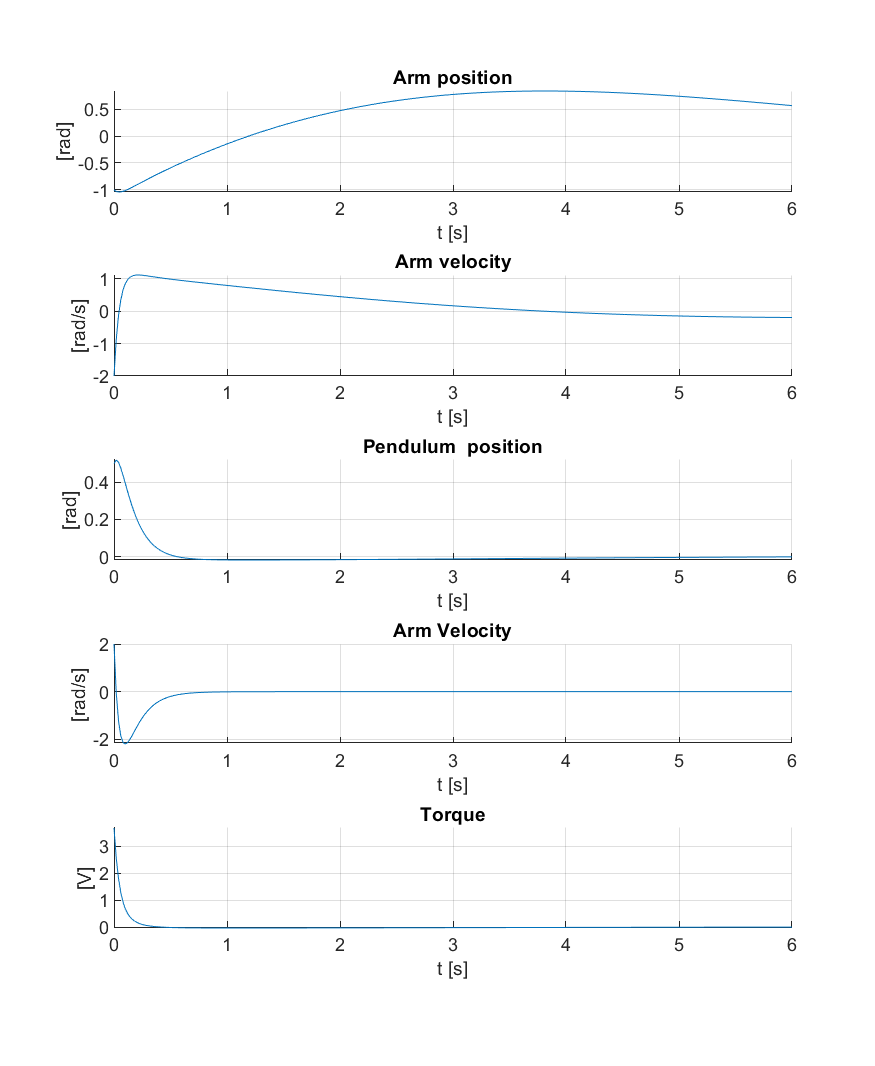
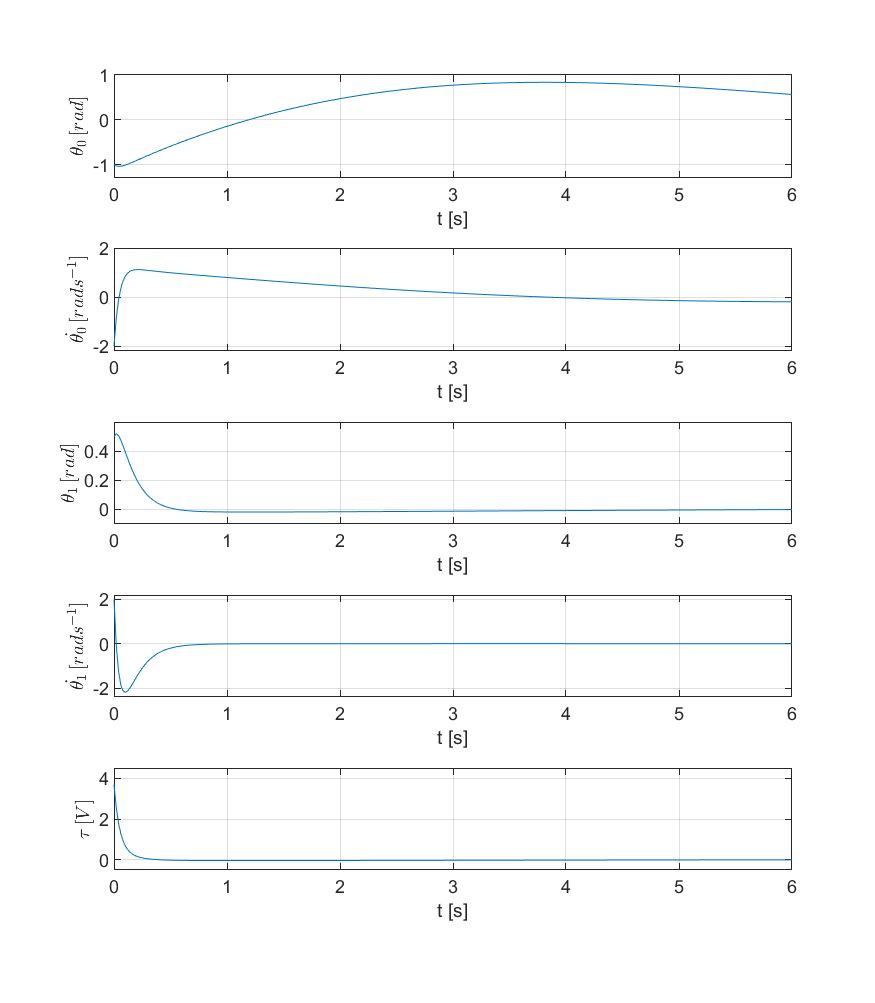
minor[LaTeX]:updated

diff --git a/LaTeX/content/theory.tex b/LaTeX/content/theory.tex
@@ -12,35 +12,37 @@ Rotational inverted pendulum or Furuta’s pendulum composes of two main parts: 
 \newpage
 The symbols in the figure indicate the following:
 \begin{itemize}
-	\item \textbf{$g$} - gravitational acceleration $[ms^2]$
-	\item \textbf{$m_0$} - mass of arm $[kg]$
-	\item \textbf{$m_1$} - mass of pendulum $[kg]$
-	\item \textbf{$L_0$} - length of arm $[m]$
-	\item \textbf{$L_1$} - length of pendulum $[m]$
-	\item \textbf{$l_1$} - location of the pendulums center of mass $[m]$
-	\item \textbf{$I_0$} - moment of inertia of arm $[kgm^2]$
-	\item \textbf{$I_1$} - moment of inertia of pendulum $[kgm^2]$
-	\item \textbf{$\theta_0$} - arm angle $[rad]$
-	\item \textbf{$\theta_1$} - pendulum angle $[rad]$
-	\item \textbf{$\tau$} - motor torque $[V]$
+	\item \textbf{$g$} - gravitational acceleration [\si{\metre\per\square\second}]
+	\item \textbf{$m_0$} - mass of arm [\si{\kilogram}]
+	\item \textbf{$m_1$} - mass of pendulum [\si{\kilogram}]
+	\item \textbf{$L_0$} - length of arm [\si{\metre}]
+	\item \textbf{$L_1$} - length of pendulum [\si{\metre}]
+	\item \textbf{$l_1$} - location of the pendulums center of mass [\si{\metre}]
+	\item \textbf{$I_0$} - moment of inertia of arm [\si{\kilogram\per\square\metre}]
+	\item \textbf{$I_1$} - moment of inertia of pendulum [\si{\kilogram\per\square\metre}]
+	\item \textbf{$\theta_0$} - arm angle [\si{\radian}]
+	\item \textbf{$\theta_1$} - pendulum angle [\si{\radian}]
+	\item \textbf{$\tau$} - motor torque [\si{\volt}]
 \end{itemize}
 \subsection{State-Space Representation}
 To obtain the state representation of the process we must define our state variables first:
 \begin{equation}
 	\begin{bmatrix}
 	x_1 & x_2 & x_3 & x_4
-	\end{bmatrix}^T = 
+	\end{bmatrix}^\intercal = 
 	\begin{bmatrix}
 	\theta_0 & \dot{\theta_0} & \theta_1 & \dot{\theta_1}
-	\end{bmatrix}^T
+	\end{bmatrix}^\intercal
 \end{equation}
 Control variable:
 \begin{equation} u = \tau \end{equation}
 Then we can write our state equations:
+\begin{subequations}
 \begin{equation}\dot{x_1} = \dot{\theta_0} \end{equation}
 \begin{equation}\dot{x_2} = \frac{\gamma(\epsilon\dot{\theta_0}^2+\rho)-\delta(\tau+\beta\dot{\theta_1}^2-\sigma\dot{\theta_0}\dot{\theta_1})}{\gamma^2-\alpha\delta}\end{equation}
 \begin{equation}\dot{x_3} = \dot{\theta_1}\end{equation}
 \begin{equation}\dot{x_4} = \frac{\gamma(\tau+\beta\dot{\theta_1}^2-\sigma\dot{\theta_0}\dot{\theta_1})-\alpha(\epsilon\dot{\theta_0}^2+\rho)}{\gamma^2-\alpha\delta}\end{equation}
+\end{subequations}
 where
 \begin{equation}\alpha = I_0+L_0^2m_1+l_1^2m_1\sin^2\theta_1\end{equation}
 \begin{equation}\beta = L_0m_1l_1\sin\theta_1 \end{equation}
@@ -61,7 +63,7 @@ Now these non-linear differential equations we can write in the form of matrices
 \end{bmatrix}
 \end{equation}
 or:
-\begin{equation}\dot{\textbf{x}} = f(\textbf{x},u) =\begin{bmatrix}f_1(\textbf{x},u)\\f_2(\textbf{x},u)\\f_3(\textbf{x},u)\\f_4(\textbf{x},u)\end{bmatrix} \end{equation}
+\begin{equation}\dot{\textbf{x}} = f(\textbf{x},u) =\begin{bmatrix}f_1(\textbf{x},u)\\f_2(x,u)\\f_3(x,u)\\f_4(x,u)\end{bmatrix} \end{equation}
 So that’s our non-linear dynamic model of the process. But only the NMPC controller is able to operate with such a model.  So, to make that model suitable for LQR and MPC controller we can approximate that non-linear model by a linear model as follows:
 \begin{equation}\dot{x} = Ax + Bu\end{equation}
 And the constant matrices are derived as:
@@ -89,12 +91,12 @@ respektive:
 \frac{-L_0l_1m_1}{(m_1L_0^2+I_0)(m_1l_1^2+I_1)-L_0^2l_1^2m_1^2}
 \end{bmatrix}\end{equation}
 \begin{equation}C = \begin{bmatrix}0&0&1&0\end{bmatrix}\end{equation}
-\begin{equation}D = \begin{bmatrix}0\end{bmatrix}\end{equation}
-The linearized equations of motion for the simplified system are now could be derived for the two equilibrium positions: upright and downward. The reason is that in the downward position the system's output, which is the position of the pendulum has a stable point at +-pi, while at the upright position system has no stable point.\\
+\begin{equation}D = 0\end{equation}
+The linearized equations of motion for the simplified system are now could be derived for two equilibrium positions: upright and downward. The reason is that at the downward position the system's output, which is the position of the pendulum, has a stable point at “$+\pi$” and “$-\pi$”, while at the upright position system has no stable point.\\
 
-The model, obtained by linearization around the upright operation point is used for fulfilling the main control objective, which is stabilizing the pendulum at the upright position. The second model is used to simulate process behavior during initial excitation by a Swing-up controller.
-\section{Controllers}
-\subsection{LQR}
+The model, obtained by linearization around the upright operation point, is used for fulfilling the main control objective, which is stabilizing the pendulum at the upright position. The second model is used to simulate process behavior during initial excitation by a Swing-up controller.
+\section{Controller Synthesis}
+\subsection{LQR design}
 The Linear Quadratic Regulator (LQR) is a well-known method that provides optimally controlled feedback gains to enable the closed-loop stable and high performance design of systems.
 \begin{equation}
 \begin{split}
@@ -102,7 +104,7 @@ The Linear Quadratic Regulator (LQR) is a well-known method that provides optima
 y &= Cx, C=I^{n \times n}
 \end{split}
 \end{equation}
-which requires  full state feedback (all n states are measurable).
+which requires  full-state feedback (all n states are measurable).
 The feedback gain is a matrix K and the feedback control law takes the form:
 \begin{equation}
 	u = -Kx
@@ -112,28 +114,46 @@ Than closed-loop system dynamics can be written:
 \dot{x} = (A-BK)x
 \end{equation}
 So there appears condition that poles of $(A-BK)$ must be in in stable, suitably-damped locations in the complex plane.
-\subsubsection{The Maximum Principle}
+\subsubsection{Derivation of LQR}
 Towards a generic procedure for solving optimal control problems, we derive a methodology based on the calculus of variations. The problem statement for a fixed final time $t_f$ is:
 \begin{equation}
 \begin{split}
-	J = \min_{u}& \Phi(t_f)+\int\limits_{t_0}^{t_f}L(x(t),u(t),t)\;dt\\
+	J = \min_{u}& \quad \Phi(t_f)+\frac{1}{2}\int\limits_{t_0}^{t_f}L(x(t),u(t),t)\;dt\\
 	s.t.&\quad  \dot{x} = f(x(t),u(t),t)\\
 	& \quad x(t_0) = x_0
 	\end{split}
 \end{equation}
-In the case of the Linear Quadratic Regulator (with zero terminal cost), we set  $\Phi(x(t_f))=0$, and $L = x^TQx+u^TRu$ solve the new optimization problem
+In the case of the Linear Quadratic Regulator (with zero terminal cost), we set  $\Phi(x(t_f))=0$, and $L = x^\intercal Qx+u^\intercal Ru$ solve the new optimization problem
 \begin{equation}
-J=\min_{u}  \int\limits_{t_0}^{t_f}x^TQx+u^TRu\;dt
+J=\min_{u}  \frac{1}{2}\int\limits_{t_0}^{t_f}x^\intercal Qx+u^\intercal Ru\;dt
 \end{equation}
-Where $Q$ and $R$ are positive semidefinite weighting matrices for states and control input respectively. By solving this optimization problem we obtain the optimal solution for the control law:
+Where $Q$ and $R$ are positive semidefinite weighting matrices for states and control input respectively.
+Now we define new variable $H$ as:
 \begin{equation}
-u = -R^{-1}B^TPx
+H = \frac{1}{2}(x\intercal Qx + u^\intercal Ru)+\lambda^\intercal(Ax + Bu)
 \end{equation}
-Where matrix $P$ is calculated by solving Riccati equation in continuous time:
+
+As we are looking for minimum, we apply the condition, that $\frac{\partial H(x,u,\lambda)}{\partial u}$ is equal to zero.
 \begin{equation}
-Q + A^TP + PA - PBR^{-1}BTP = 0
+	\frac{\partial H(x,u,\lambda)}{\partial u} = Ru + B^\intercal\lambda = 0
 \end{equation}
-\subsection{MPC}
+then:
+\begin{equation}
+u = -R^{-1}B^\intercal\lambda
+\end{equation}
+where
+\begin{equation}
+\lambda = Px
+\end{equation}
+and finally
+\begin{equation}
+u = -R^{-1}B^\intercal Px
+\end{equation}
+And that is our optimal control law for full-state feedback LQR. Matrix $P$ is calculated by solving Riccati equation in continuous time:
+\begin{equation}
+Q + A^\intercal P + PA - PBR^{-1}B^\intercal P = 0
+\end{equation}
+\subsection{MPC controller design}
 MPC uses a model of the system to make predictions about the system’s future behavior. MPC solves an online optimization algorithm to find the optimal control action that drives the predicted output to the reference. MPC can handle MIMO systems that may have interactions between their inputs and outputs. It can also handle input and output constraints. MPC has preview capability; it can incorporate future reference information into the control problem to improve controller performance.
 \subsubsection{MPC formulation}
 MPC controller requires the model of the system in the discrete time formulation that
@@ -181,9 +201,9 @@ respektive:
 	\hat{Y} = Y_0 + GU
 \end{equation}
 And now the whole optimization problem could be written as a QP problem with constrains:
-\begin{equation}
+\begin{equation}\label{mpcformulation}
 \begin{split}
-J = \min_{u}& \sum_{k}^{k+N}x^TQ_xx+u^TQ_uu\\
+J = \min_{u}& \sum_{k}^{k+N}x^\intercal Q_xx+u^\intercal Q_uu\\
 s.t.&\quad  x_{k+1} = Ax_k + Bu_k\\
 &\quad  y_{k} = Cx_k\\
 & \quad u_{min}\leq u_k\leq u_{max}
@@ -191,7 +211,7 @@ s.t.&\quad  x_{k+1} = Ax_k + Bu_k\\
 \end{equation}
 Where $Q_x$ and $Q_u$ are positive semidefinite weighting matrices for states and control input respectively.
 By solving that optimization problem we get the optimal value for control input for every simulation step.
-\subsection{Swing-Up}
+\subsection{Swing-Up controller design}
 For initial excitation of the system we use the energy-based swing-up controller. The strategy with this controller is that we increase the amplitude of swings by increasing the energy of the system with every swing. The energy is added by controlling arms movements and depends on the actual energy of the pendulum. The actual energy of the pendulum can be calculated from the actual position of the pendulum and its velocity: 
 \begin{equation}
 E = \frac{m_1gl_1}{2}((\frac{\dot{\theta_1}}{\omega_0})^2+\cos\theta_1 - 1)

diff --git a/LaTeX/content/simulations.tex b/LaTeX/content/simulations.tex
@@ -1,5 +1,6 @@
 \chapter{Simulation Results}
 \section{LQR}
+As first we design a Linear-Quadratic regulator to control the process in the upright position. To simulate the system's behavior we use matrices $A$ and $B$, which were linearised relative to the upper operating point.\\
 To design an LQR we have to define weight matrices $Q$ and $R$:
 \begin{equation}
 	Q = \begin{bmatrix}
@@ -7,7 +8,7 @@ To design an LQR we have to define weight matrices $Q$ and $R$:
 	0&0.05&0&0\\
 	0&0&10&0\\
 	0&0&0&0.5
-	\end{bmatrix}; \quad R = \begin{bmatrix}1\end{bmatrix};
+	\end{bmatrix} \quad R = 1
 \end{equation}
 Then we calculate state-feedback gain:
 \begin{equation}
@@ -17,16 +18,18 @@ Now we choose the initial condition:
 \begin{equation}
 	x_0 = \begin{bmatrix}
 	-1&-2&0.5&2
-	\end{bmatrix}^T
+	\end{bmatrix}^\intercal
 \end{equation}
-\begin{figure}[h]
+\newpage
+\begin{figure}[H]
 	\centering
-	\includegraphics[width=.6\linewidth]{images/LQR}
+	\includegraphics[width=1.1\linewidth]{images/LQR}
 	\caption{Control with LQR: simulation}
 	\label{lqr}
 \end{figure}
 \newpage
 \section{MPC}
+An MPC comtoller will be used with the same purpose as LQR: to control the pendulum at the upright position. The optimization problem \ref{mpcformu;ation} is solved via using $quadprog$ solver in MATLLAB.
 To design an MPC controller we have to define weight matrices $Q_x$ and $Q_u$:
 \begin{equation}
 Q_x = \begin{bmatrix}
@@ -34,7 +37,7 @@ Q_x = \begin{bmatrix}
 0&0.08&0&0\\
 0&0&10&0\\
 0&0&0&0.2
-\end{bmatrix}; \quad Q_u = \begin{bmatrix}1\end{bmatrix};
+\end{bmatrix} \quad Q_u = 1
 \end{equation}
 And set constrains for the control input:
 \begin{equation}
@@ -44,27 +47,30 @@ And set constrains for the control input:
 	\end{split}
 \end{equation}
 We use the same initial condition as with the LQR
-\begin{figure}[h]
+\newpage
+\begin{figure}[H]
 	\centering
-	\includegraphics[width=.6\linewidth]{images/MPC}
+	\includegraphics[width=1.1\linewidth]{images/MPC}
 	\caption{Control with MPC: simulation}
 	\label{mpc}
 \end{figure}
 \newpage
 \section{Swing-Up}
 The main purpose of the Swing-Up controller is to swing the pendulum from the downside position into the upright position where the control of the process will be taken by another controller.
-\begin{figure}[h]
+\newpage
+\begin{figure}[H]
 	\centering
-	\includegraphics[width=.6\linewidth]{images/Swing}
+	\includegraphics[width=1.1\linewidth]{images/Swing}
 	\caption{Control with Swing-Up: simulation}
 	\label{swing}
 \end{figure}
 \newpage
-\section{Combined LQR/Swing-Up and MPC/Swing-up control}
+\section{Combined Control Strategy}
 Now we combine the Swing-Up controller with an LQR or MPC controller to fully control the process. The strategy is the following: at the beginning, we oscillate the pendulum from the steady-state at the downside position with the Swing-Up controller. With every swing the amplitude of swings is increasing. And as the position of the pendulum reaches the value of 0.5 radians, we are switching to another controller. And also we have to recalculate the predicted states because while we control the system with the Swing-Up controller, states are calculated via matrices A and B, which were linearised relative to downside operating point. While LQR and MPC controller require matrices A and B, which were linearised relative to the upright operating point.
-\begin{figure}[h]
+\newpage
+\begin{figure}[H]
 	\centering
-	\includegraphics[width=.6\linewidth]{images/MPC-LQR_Swing}
+	\includegraphics[width=1.1\linewidth]{images/MPC-LQR_Swing}
 	\caption{Combined LQR/Swing-Up and MPC/Swing-up control: simulation}
 	\label{combo}
 \end{figure}
@@ -83,11 +89,12 @@ As we have all the toolboxes, we use nonlinear model of the process \ref{nonlinm
 	0&0.1&0&0\\
 	0&0&2&0\\
 	0&0&0&0.1
-	\end{bmatrix}; \quad Q_u = \begin{bmatrix}0.1\end{bmatrix}
+	\end{bmatrix} \quad Q_u = 0.1
 \end{equation}
-\begin{figure}[h]
+\newpage
+\begin{figure}[H]
 	\centering
-	\includegraphics[width=.6\linewidth]{images/NMPC}
+	\includegraphics[width=1.1\linewidth]{images/NMPC}
 	\caption{NMPC control: simulation}
 	\label{NMPC}
 \end{figure}
